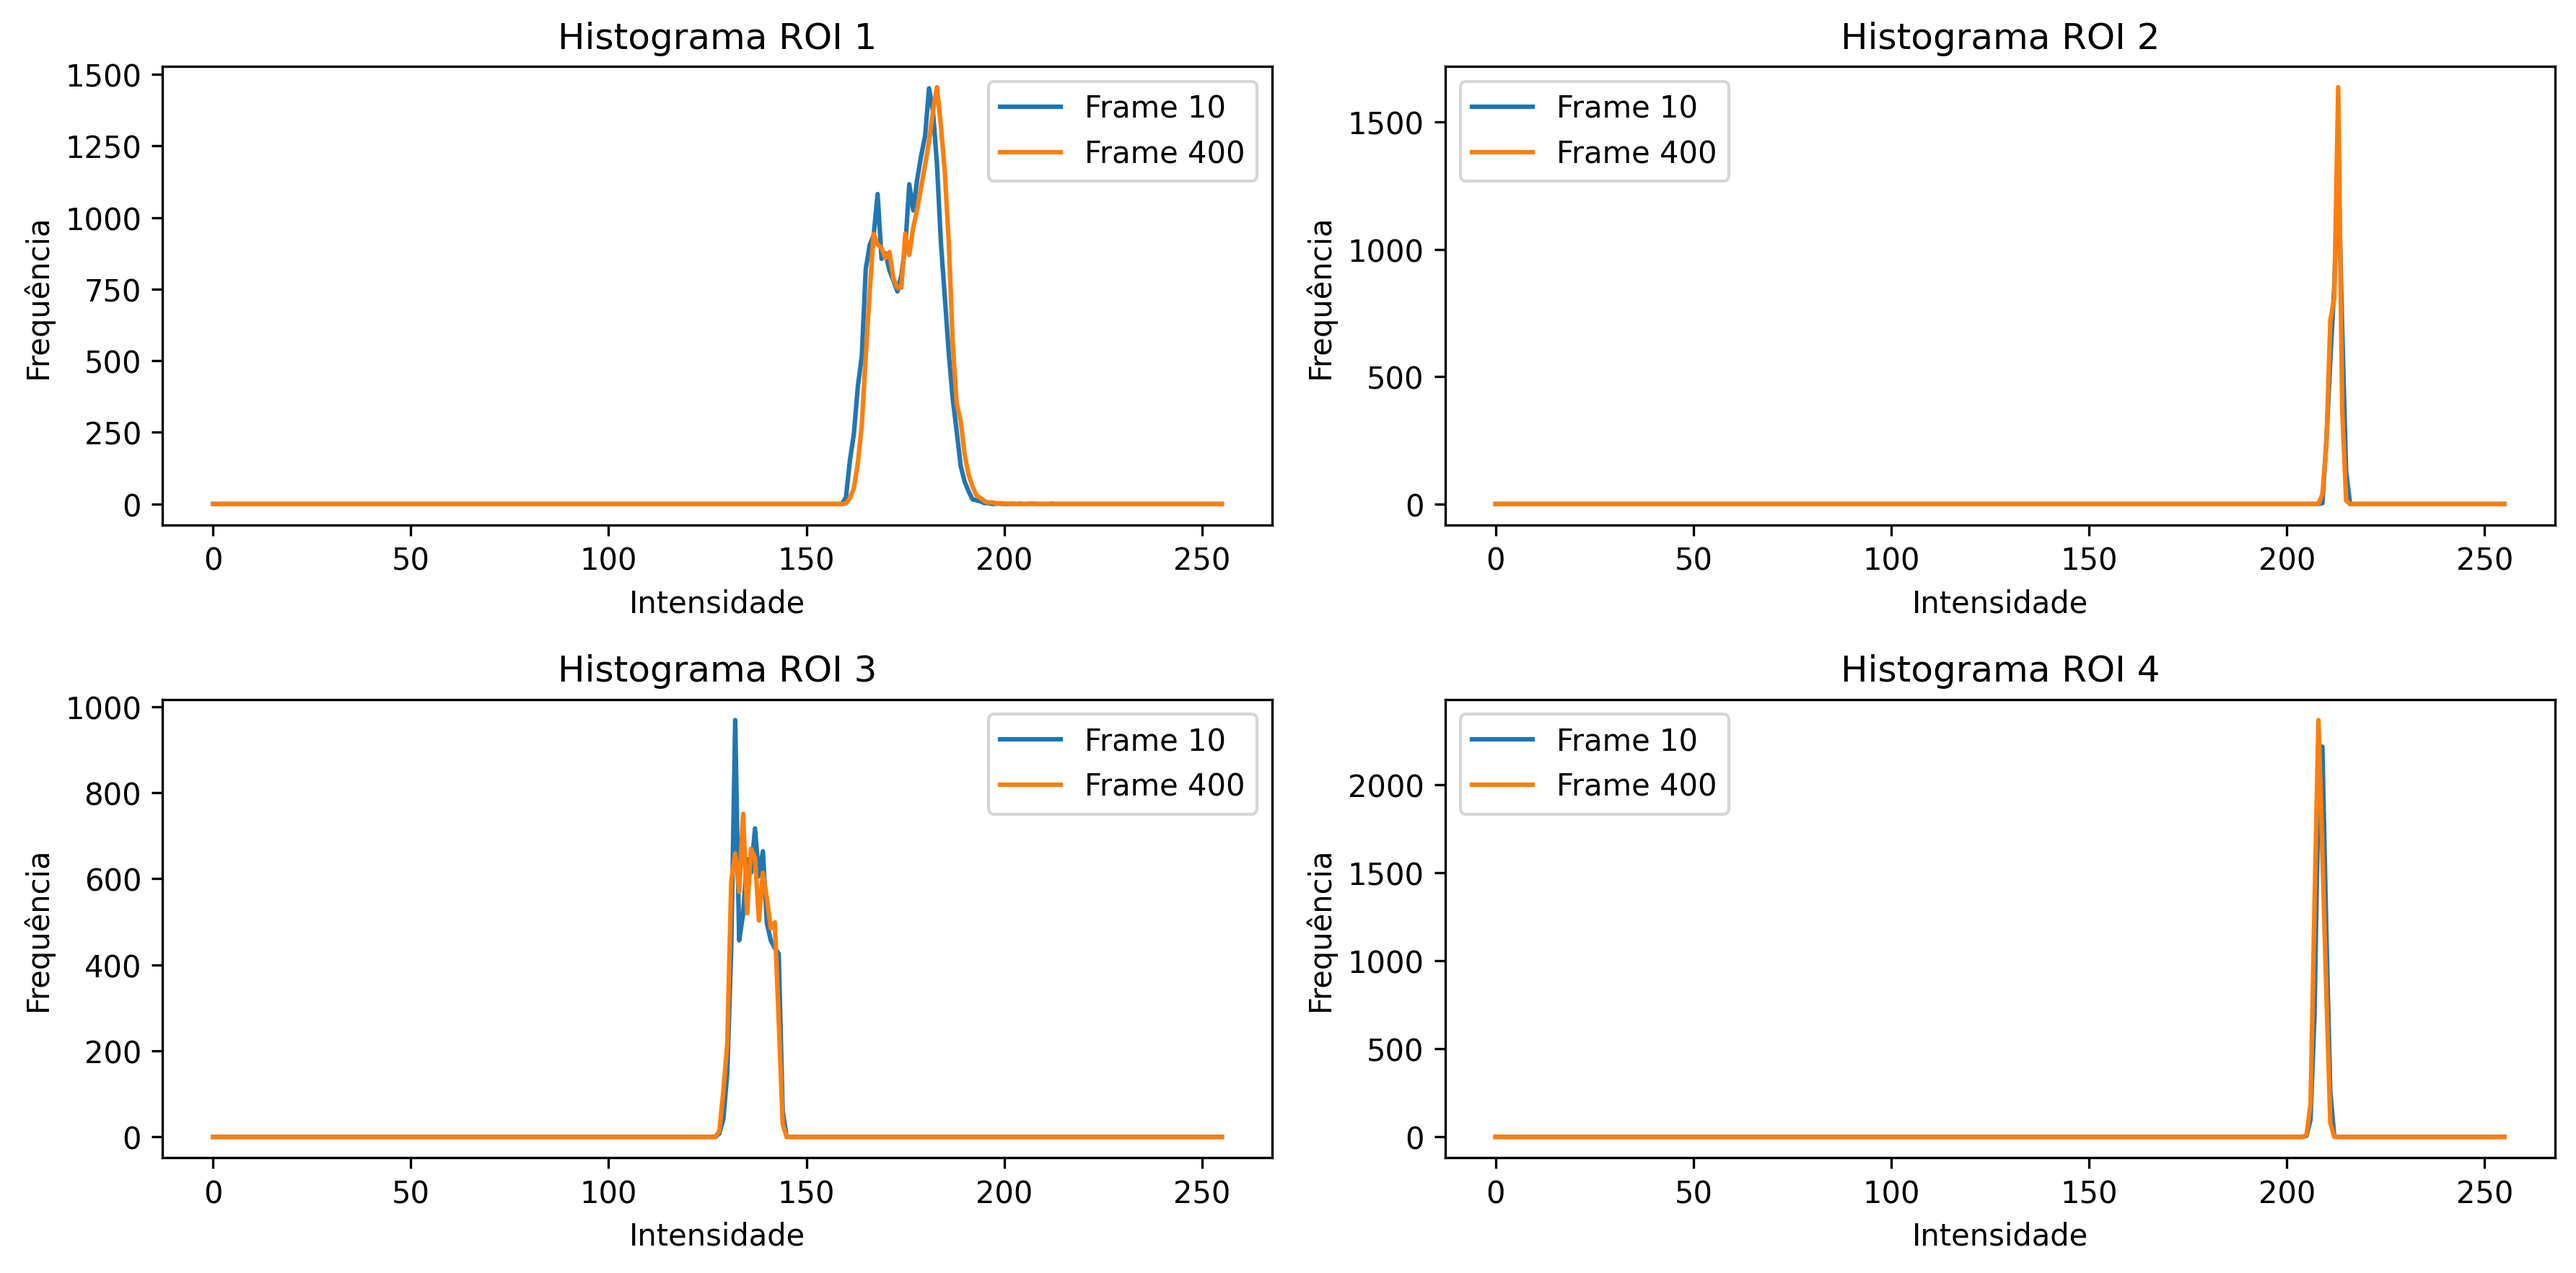
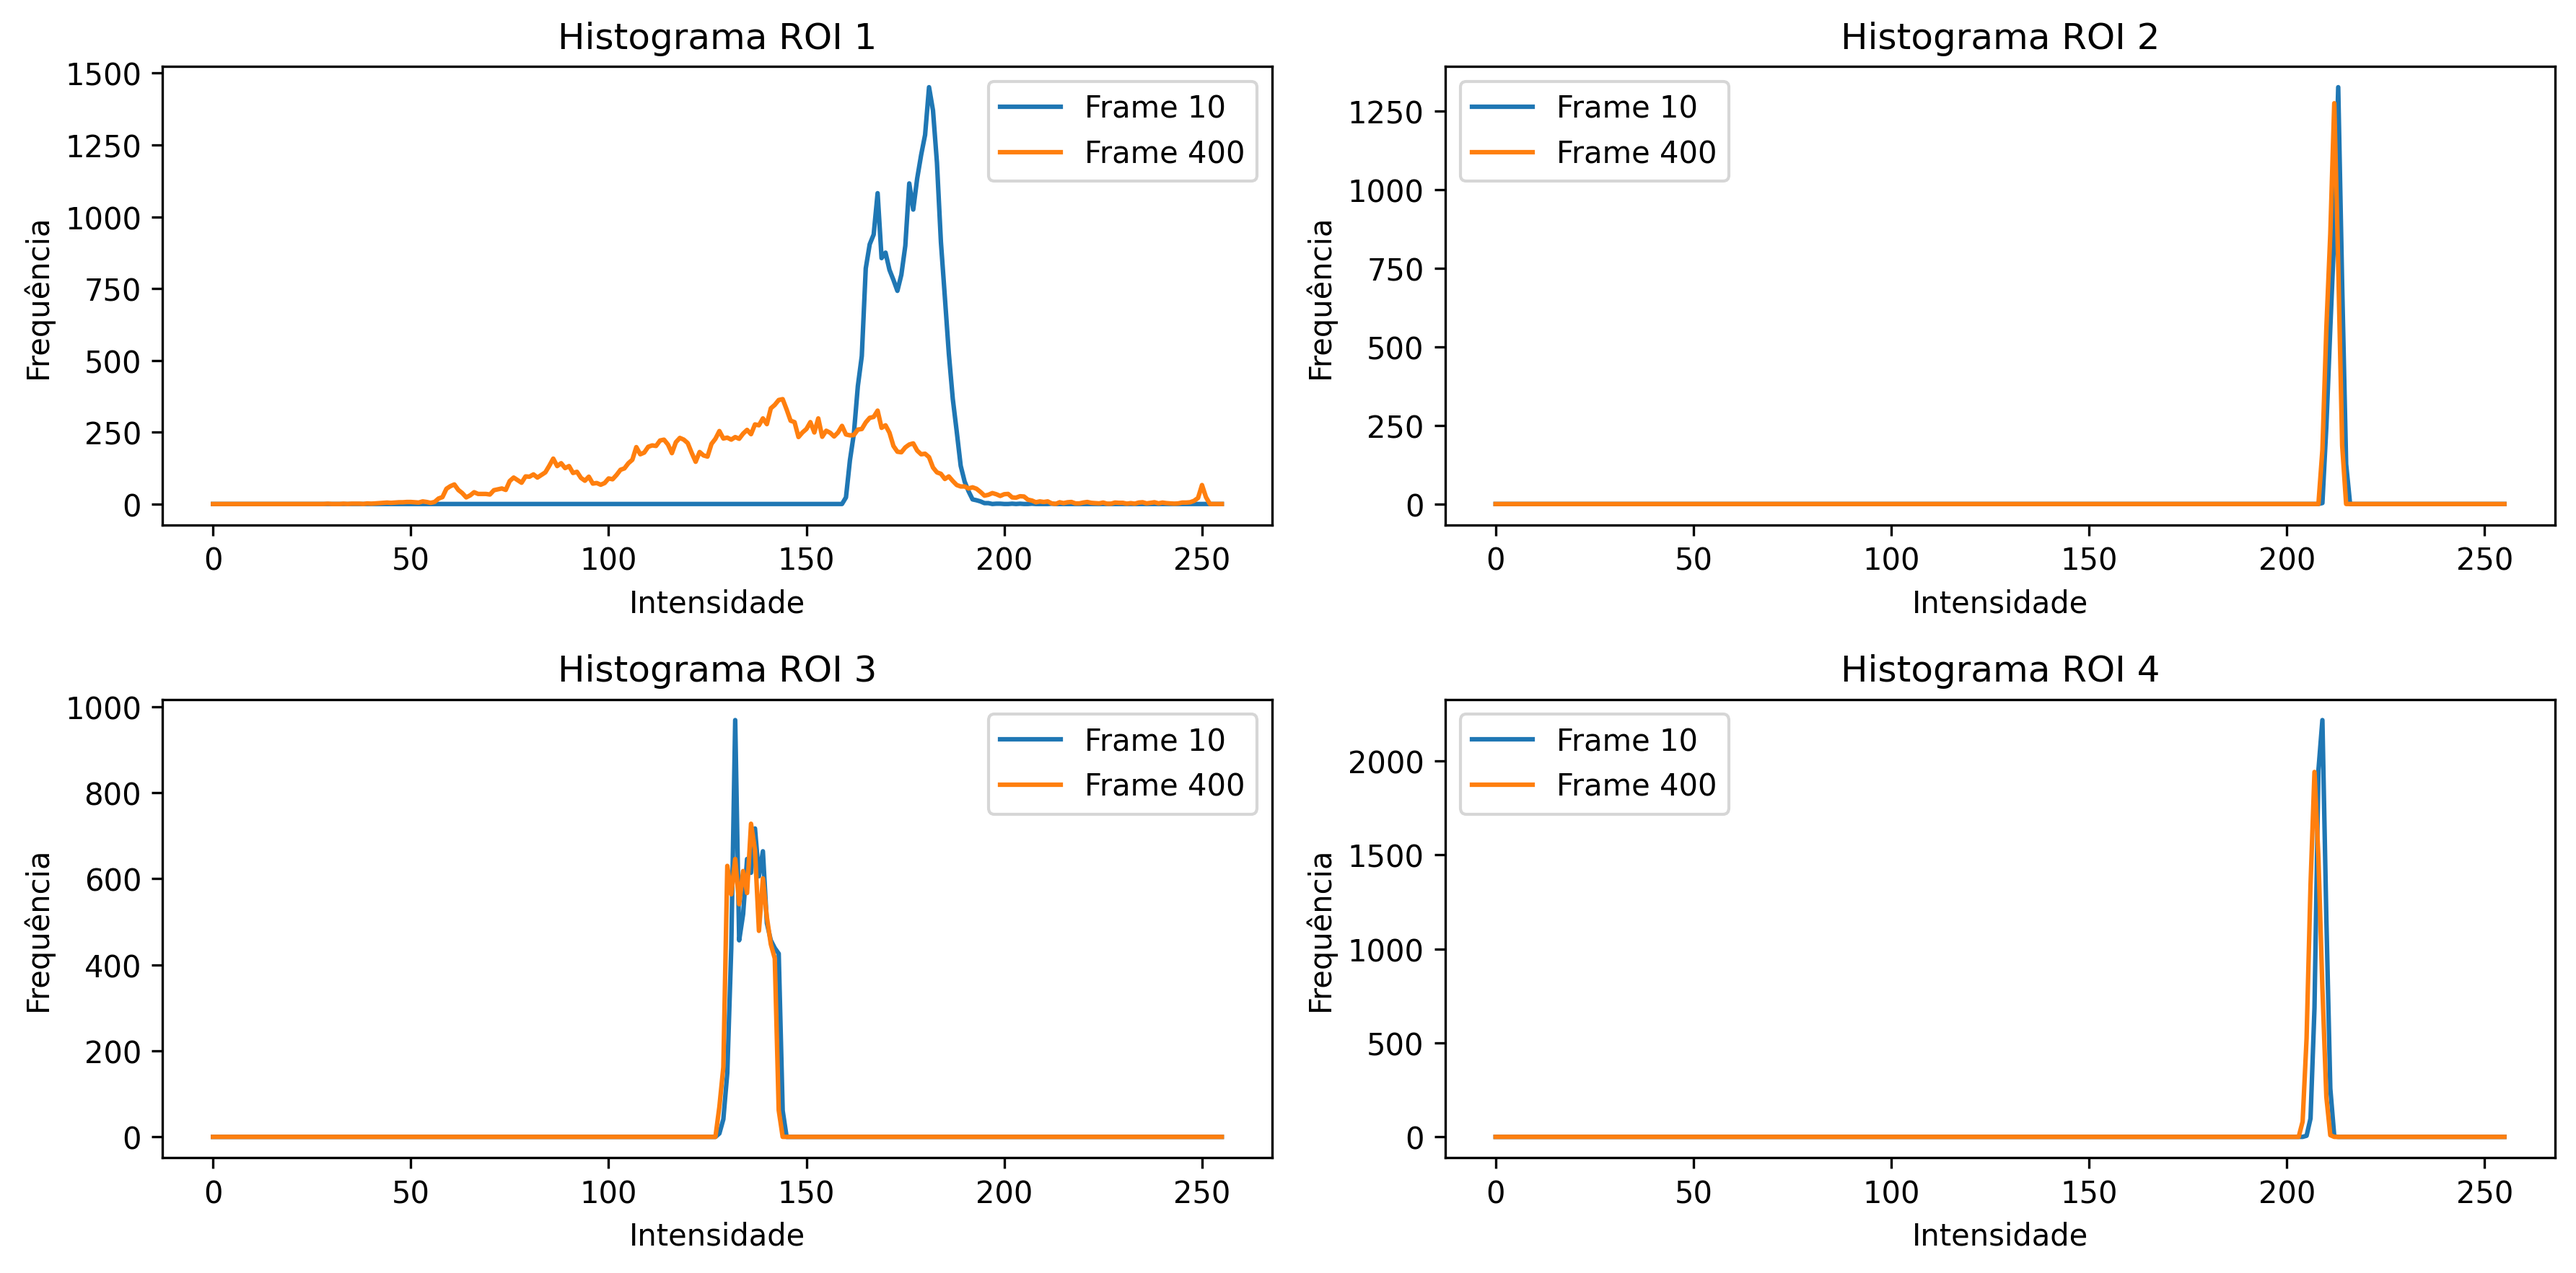
histograma com diferentes frames

diff --git a/CorrectLightUnpolHistogram.py b/CorrectLightUnpolHistogram.py
@@ -702,7 +702,7 @@ print(f"Os dados foram salvos no arquivo {excel_filename}")
 ##### histograma
 
 
-def histogram(video_path, roi1, roi2, roi3, roi4,output_image_path):
+def histogram(video_path, roi1, roi2, roi3, roi4, firstFrame,lastFrame, output_image_path):
     # Tenta abrir o vídeo
     cap = cv.VideoCapture(video_path)
     if not cap.isOpened():
@@ -710,13 +710,13 @@ def histogram(video_path, roi1, roi2, roi3, roi4,output_image_path):
         sys.exit(1)
 
     # Lê os frames 10 e 400
-    cap.set(cv.CAP_PROP_POS_FRAMES, 10)
+    cap.set(cv.CAP_PROP_POS_FRAMES, firstFrame)
     ret, frame_10 = cap.read()
     if not ret:
         print("Não foi possível ler o frame 10.")
         sys.exit(1)
 
-    cap.set(cv.CAP_PROP_POS_FRAMES, 400)
+    cap.set(cv.CAP_PROP_POS_FRAMES, lastFrame)
     ret, frame_400 = cap.read()
     if not ret:
         print("Não foi possível ler o frame 400.")
@@ -803,4 +803,4 @@ def histogram(video_path, roi1, roi2, roi3, roi4,output_image_path):
 
 # função para calcular o histograma de uma imagem
 output_image_path = f"FigureHistogram.png"
-histogram(video_path, roi1, roi2, roi3, roi4,output_image_path)
+histogram(video_path, roi1, roi2, roi3, roi4,10, 110, output_image_path)
